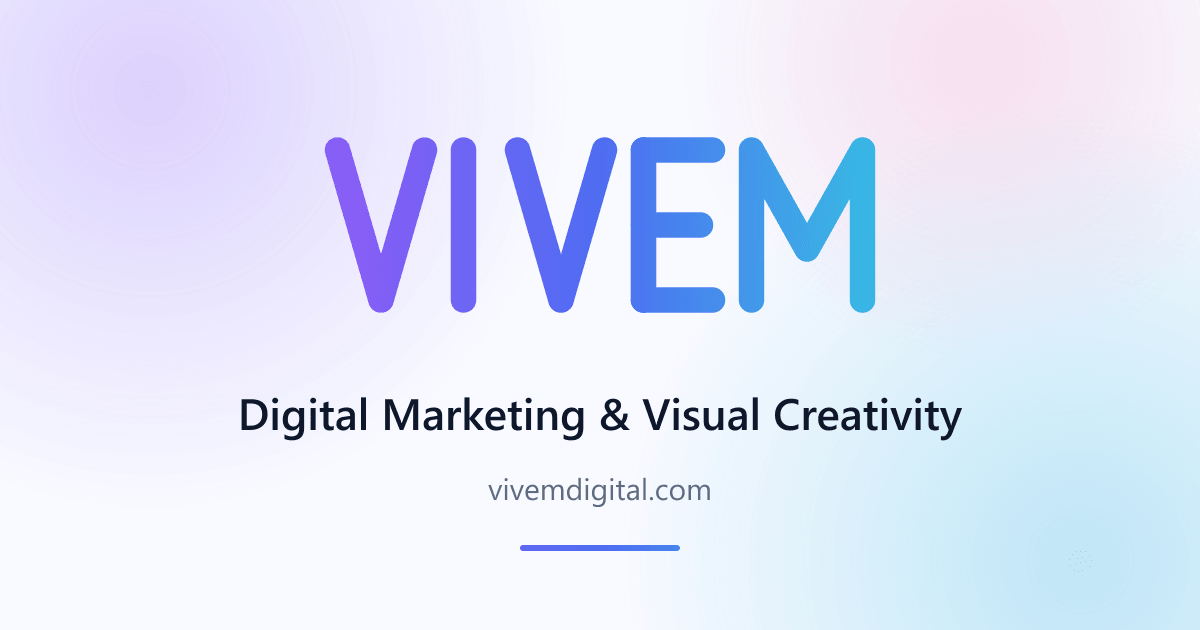
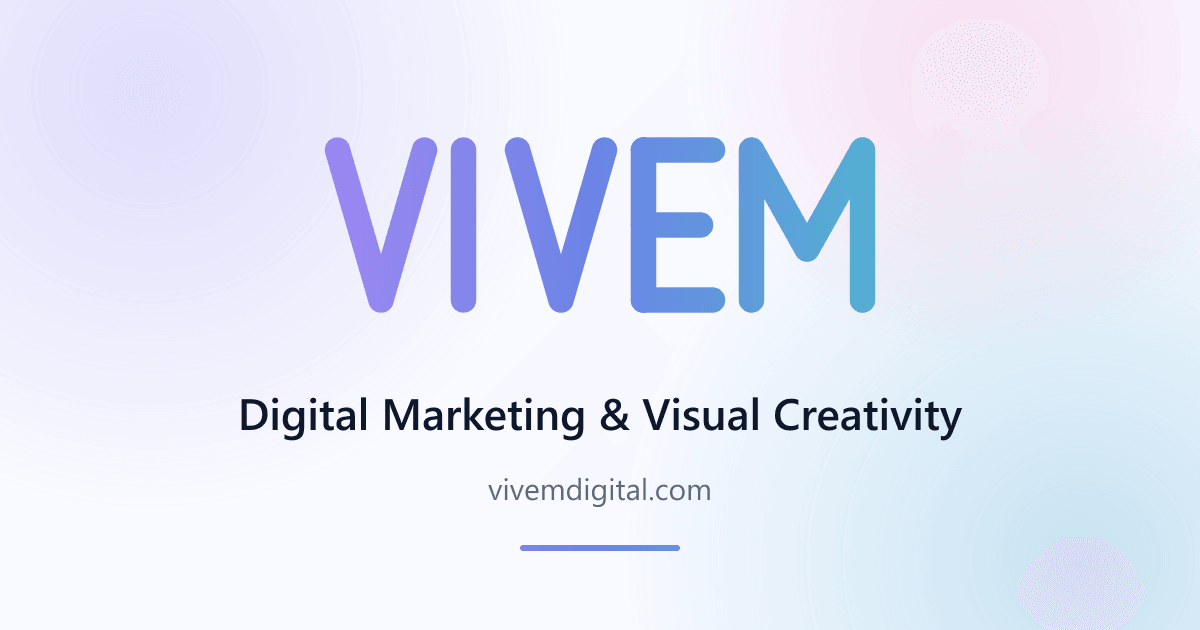
Soften gradient further: dusted violet/indigo/cyan, calmer hero mesh and blobs

Changed region(s): [[0.2467, 0.2111, 0.74, 0.5127], [0.8633, 0.8444, 0.9558, 0.9651], [0.4317, 0.8444, 0.5858, 0.8746]]

diff --git a/src/styles/tokens.css b/src/styles/tokens.css
@@ -5,9 +5,9 @@
 
 :root {
   /* -- Aurora palette (softened: closer hues, calmer saturation) ------------ */
-  --aurora-1: #8b5cf6; /* violet       */
-  --aurora-2: #4f6df2; /* indigo-blue  */
-  --aurora-3: #38b6e3; /* dusted cyan  */
+  --aurora-1: #9b87f0; /* violet       */
+  --aurora-2: #6b84e6; /* indigo-blue  */
+  --aurora-3: #56aed2; /* dusted cyan  */
   --accent: #ec4899;   /* pink touch   */
 
   /* Semantic ink & surfaces (light-only identity — no dark mode by decision) */
@@ -24,13 +24,13 @@
 
   /* Brand aliases (components reference these, never raw aurora stops) */
   --brand: var(--aurora-2);
-  --brand-strong: #3b5bdb;
-  --brand-soft: rgba(79, 109, 242, 0.10);
+  --brand-strong: #4059c8;
+  --brand-soft: rgba(107, 132, 230, 0.10);
   --on-brand: #ffffff;
 
   /* -- Gradients ----------------------------------------------------------- */
   --grad-aurora: linear-gradient(120deg, var(--aurora-1) 0%, var(--aurora-2) 48%, var(--aurora-3) 100%);
-  --grad-aurora-soft: linear-gradient(120deg, rgba(139, 92, 246, 0.12) 0%, rgba(79, 109, 242, 0.10) 48%, rgba(56, 182, 227, 0.14) 100%);
+  --grad-aurora-soft: linear-gradient(120deg, rgba(155, 135, 240, 0.09) 0%, rgba(107, 132, 230, 0.08) 48%, rgba(86, 174, 210, 0.11) 100%);
   --grad-aurora-animated: linear-gradient(120deg, var(--aurora-1), var(--aurora-2), var(--aurora-3), var(--aurora-1));
   --grad-accent: linear-gradient(120deg, var(--accent), var(--aurora-1));
 
@@ -74,11 +74,11 @@
   --r-full: 999px;
 
   /* -- Elevation (aurora-tinted, layered) ----------------------------------- */
-  --shadow-1: 0 1px 2px rgba(15, 23, 42, 0.05), 0 4px 12px rgba(79, 109, 242, 0.06);
-  --shadow-2: 0 2px 6px rgba(15, 23, 42, 0.06), 0 12px 32px rgba(79, 109, 242, 0.10);
-  --shadow-3: 0 4px 10px rgba(15, 23, 42, 0.07), 0 24px 56px rgba(79, 109, 242, 0.14);
-  --shadow-glow: 0 8px 30px rgba(79, 109, 242, 0.24);
-  --ring-focus: 0 0 0 3px rgba(79, 109, 242, 0.35);
+  --shadow-1: 0 1px 2px rgba(15, 23, 42, 0.05), 0 4px 12px rgba(107, 132, 230, 0.06);
+  --shadow-2: 0 2px 6px rgba(15, 23, 42, 0.06), 0 12px 32px rgba(107, 132, 230, 0.10);
+  --shadow-3: 0 4px 10px rgba(15, 23, 42, 0.07), 0 24px 56px rgba(107, 132, 230, 0.14);
+  --shadow-glow: 0 8px 30px rgba(107, 132, 230, 0.24);
+  --ring-focus: 0 0 0 3px rgba(107, 132, 230, 0.35);
 
   /* -- Motion ---------------------------------------------------------------- */
   --ease-out: cubic-bezier(0.22, 1, 0.36, 1);

diff --git a/src/styles/components/header-hero.css b/src/styles/components/header-hero.css
@@ -177,29 +177,29 @@
   inset: 0;
   z-index: var(--z-decor);
   background:
-    radial-gradient(42rem 42rem at 12% 8%, rgba(139, 92, 246, 0.16), transparent 65%),
-    radial-gradient(38rem 38rem at 88% 18%, rgba(56, 182, 227, 0.15), transparent 65%),
-    radial-gradient(46rem 40rem at 78% 92%, rgba(79, 109, 242, 0.13), transparent 65%),
-    radial-gradient(30rem 30rem at 18% 88%, rgba(236, 72, 153, 0.09), transparent 65%);
+    radial-gradient(42rem 42rem at 12% 8%, rgba(155, 135, 240, 0.12), transparent 65%),
+    radial-gradient(38rem 38rem at 88% 18%, rgba(86, 174, 210, 0.11), transparent 65%),
+    radial-gradient(46rem 40rem at 78% 92%, rgba(107, 132, 230, 0.10), transparent 65%),
+    radial-gradient(30rem 30rem at 18% 88%, rgba(236, 72, 153, 0.07), transparent 65%);
 }
 .hero-blob {
   position: absolute;
   border-radius: 50%;
   filter: blur(70px);
-  opacity: 0.36;
+  opacity: 0.3;
   z-index: var(--z-decor);
   will-change: transform;
 }
 .hero-blob--1 {
   width: 34rem; height: 34rem;
   inset-block-start: -8rem; inset-inline-start: -8rem;
-  background: radial-gradient(circle, rgba(139, 92, 246, 0.35), transparent 70%);
+  background: radial-gradient(circle, rgba(155, 135, 240, 0.35), transparent 70%);
   animation: drift-1 26s var(--ease-in-out) infinite alternate;
 }
 .hero-blob--2 {
   width: 30rem; height: 30rem;
   inset-block-end: -6rem; inset-inline-end: -6rem;
-  background: radial-gradient(circle, rgba(56, 182, 227, 0.32), transparent 70%);
+  background: radial-gradient(circle, rgba(86, 174, 210, 0.32), transparent 70%);
   animation: drift-2 32s var(--ease-in-out) infinite alternate;
 }
 .hero-blob--3 {

diff --git a/src/styles/components/sections.css b/src/styles/components/sections.css
@@ -118,7 +118,7 @@
   inset: 0;
   background:
     radial-gradient(30rem 18rem at 20% 0%, rgba(255, 255, 255, 0.16), transparent 60%),
-    radial-gradient(26rem 18rem at 85% 100%, rgba(56, 182, 227, 0.26), transparent 60%);
+    radial-gradient(26rem 18rem at 85% 100%, rgba(86, 174, 210, 0.26), transparent 60%);
 }
 .stats .container {
   display: grid;
@@ -225,7 +225,7 @@
   height: 54px;
   border-radius: var(--r-md);
   background: var(--grad-aurora-soft);
-  border: 1px solid rgba(79, 109, 242, 0.14);
+  border: 1px solid rgba(107, 132, 230, 0.14);
   color: var(--brand);
   margin-block-end: var(--sp-4);
   transition: transform var(--t-med) var(--ease-out), background var(--t-med);
@@ -365,9 +365,9 @@
   overflow: hidden;
 }
 /* designed abstract covers per category (placeholder until real work arrives) */
-.portfolio-cover--design { background: linear-gradient(135deg, #8b5cf6 0%, #6366f1 55%, #ec4899 100%); }
-.portfolio-cover--development { background: linear-gradient(135deg, #4f6df2 0%, #31a8c9 60%, #38b6e3 100%); }
-.portfolio-cover--marketing { background: linear-gradient(135deg, #4aa8e8 0%, #8b5cf6 100%); }
+.portfolio-cover--design { background: linear-gradient(135deg, #9b87f0 0%, #6366f1 55%, #ec4899 100%); }
+.portfolio-cover--development { background: linear-gradient(135deg, #6b84e6 0%, #31a8c9 60%, #56aed2 100%); }
+.portfolio-cover--marketing { background: linear-gradient(135deg, #4aa8e8 0%, #9b87f0 100%); }
 
 .portfolio-cover::before {
   content: '';

diff --git a/src/styles/base.css b/src/styles/base.css
@@ -98,7 +98,7 @@ html[lang='ar'] .lang-en { display: none; }
 }
 .btn-primary:hover {
   transform: translateY(-2px);
-  box-shadow: 0 12px 40px rgba(139, 92, 246, 0.38);
+  box-shadow: 0 12px 40px rgba(155, 135, 240, 0.38);
   color: var(--on-brand);
 }
 /* sheen sweep on hover */
@@ -134,7 +134,7 @@ html[lang='ar'] .lang-en { display: none; }
   padding: 0.4rem 1rem;
   border-radius: var(--r-full);
   background: var(--brand-soft);
-  border: 1px solid rgba(79, 109, 242, 0.18);
+  border: 1px solid rgba(107, 132, 230, 0.18);
   color: var(--brand-strong);
   font-size: var(--fs-xs);
   font-weight: 600;
@@ -149,8 +149,8 @@ html[lang='ar'] .lang-en { display: none; }
   animation: pulse-dot 2.4s var(--ease-in-out) infinite;
 }
 @keyframes pulse-dot {
-  0%, 100% { box-shadow: 0 0 0 0 rgba(79, 109, 242, 0.4); }
-  50% { box-shadow: 0 0 0 5px rgba(79, 109, 242, 0); }
+  0%, 100% { box-shadow: 0 0 0 0 rgba(107, 132, 230, 0.4); }
+  50% { box-shadow: 0 0 0 5px rgba(107, 132, 230, 0); }
 }
 
 /* -- Section scaffolding (editorial system: numbered start-aligned heads) --- */

diff --git a/src/styles/components/contact-footer.css b/src/styles/components/contact-footer.css
@@ -129,7 +129,7 @@
 .form-group textarea:focus-visible {
   outline: none;
   border-color: var(--aurora-2);
-  box-shadow: 0 0 0 4px rgba(79, 109, 242, 0.14);
+  box-shadow: 0 0 0 4px rgba(107, 132, 230, 0.14);
 }
 
 .form-group.has-error input,
@@ -189,8 +189,8 @@
   position: absolute;
   inset: 0;
   background:
-    radial-gradient(38rem 20rem at 8% 0%, rgba(139, 92, 246, 0.22), transparent 60%),
-    radial-gradient(34rem 20rem at 95% 100%, rgba(56, 182, 227, 0.16), transparent 60%);
+    radial-gradient(38rem 20rem at 8% 0%, rgba(155, 135, 240, 0.22), transparent 60%),
+    radial-gradient(34rem 20rem at 95% 100%, rgba(86, 174, 210, 0.16), transparent 60%);
   pointer-events: none;
 }
 .site-footer .container {

diff --git a/src/styles/layout.css b/src/styles/layout.css
@@ -19,8 +19,8 @@
 /* soft alternating surface for rhythm between white sections */
 .section-alt {
   background:
-    radial-gradient(60rem 30rem at 110% -10%, rgba(56, 182, 227, 0.07), transparent 60%),
-    radial-gradient(50rem 28rem at -10% 110%, rgba(139, 92, 246, 0.07), transparent 60%),
+    radial-gradient(60rem 30rem at 110% -10%, rgba(86, 174, 210, 0.07), transparent 60%),
+    radial-gradient(50rem 28rem at -10% 110%, rgba(155, 135, 240, 0.07), transparent 60%),
     var(--surface);
   border-block: 1px solid var(--line);
 }
